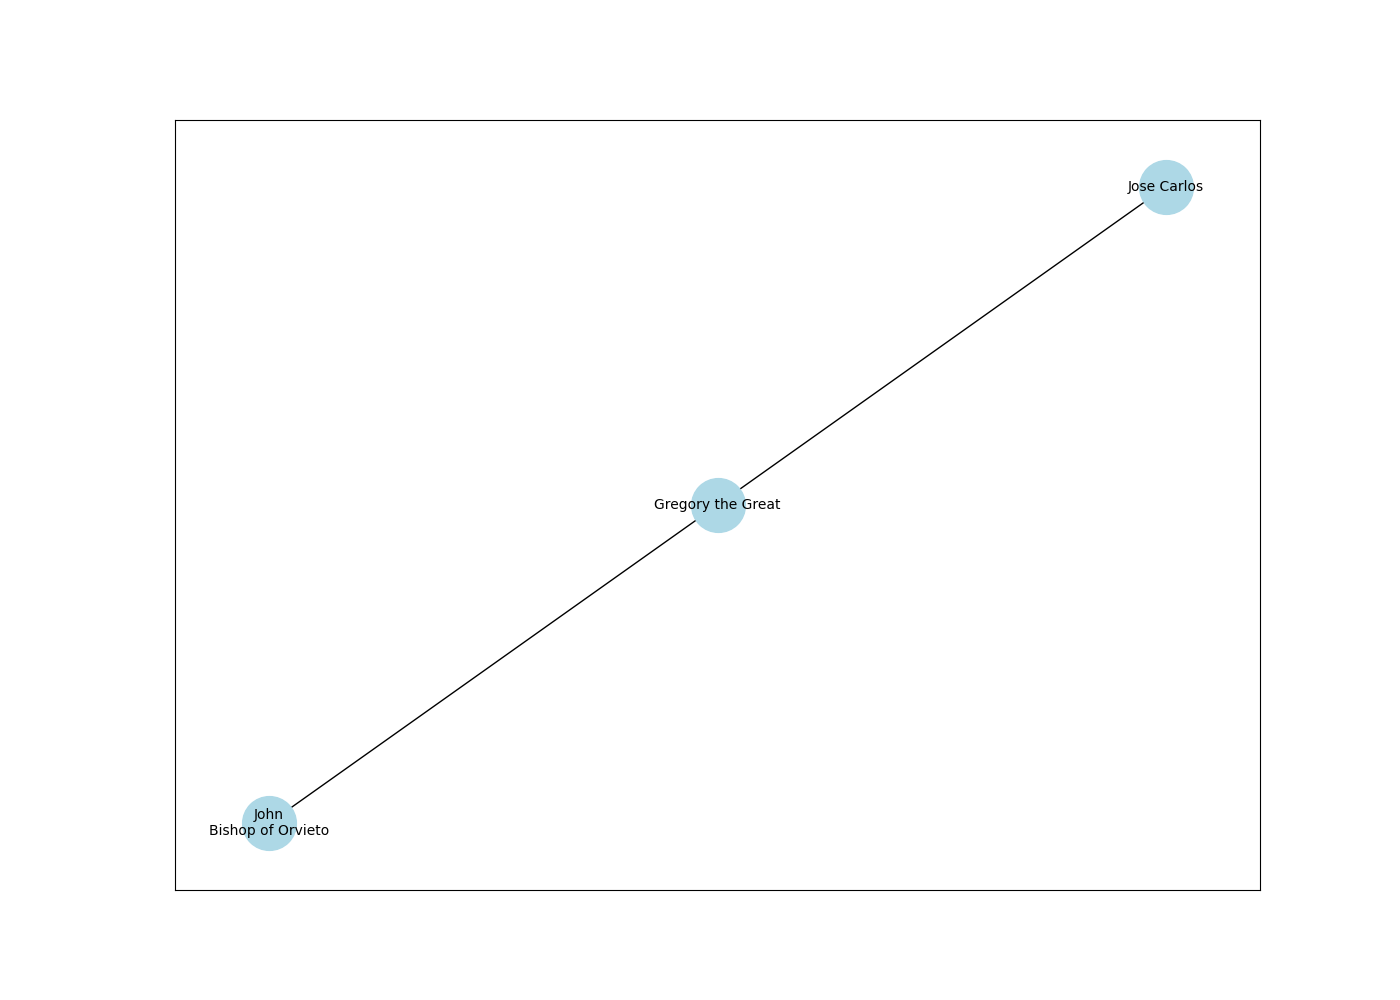
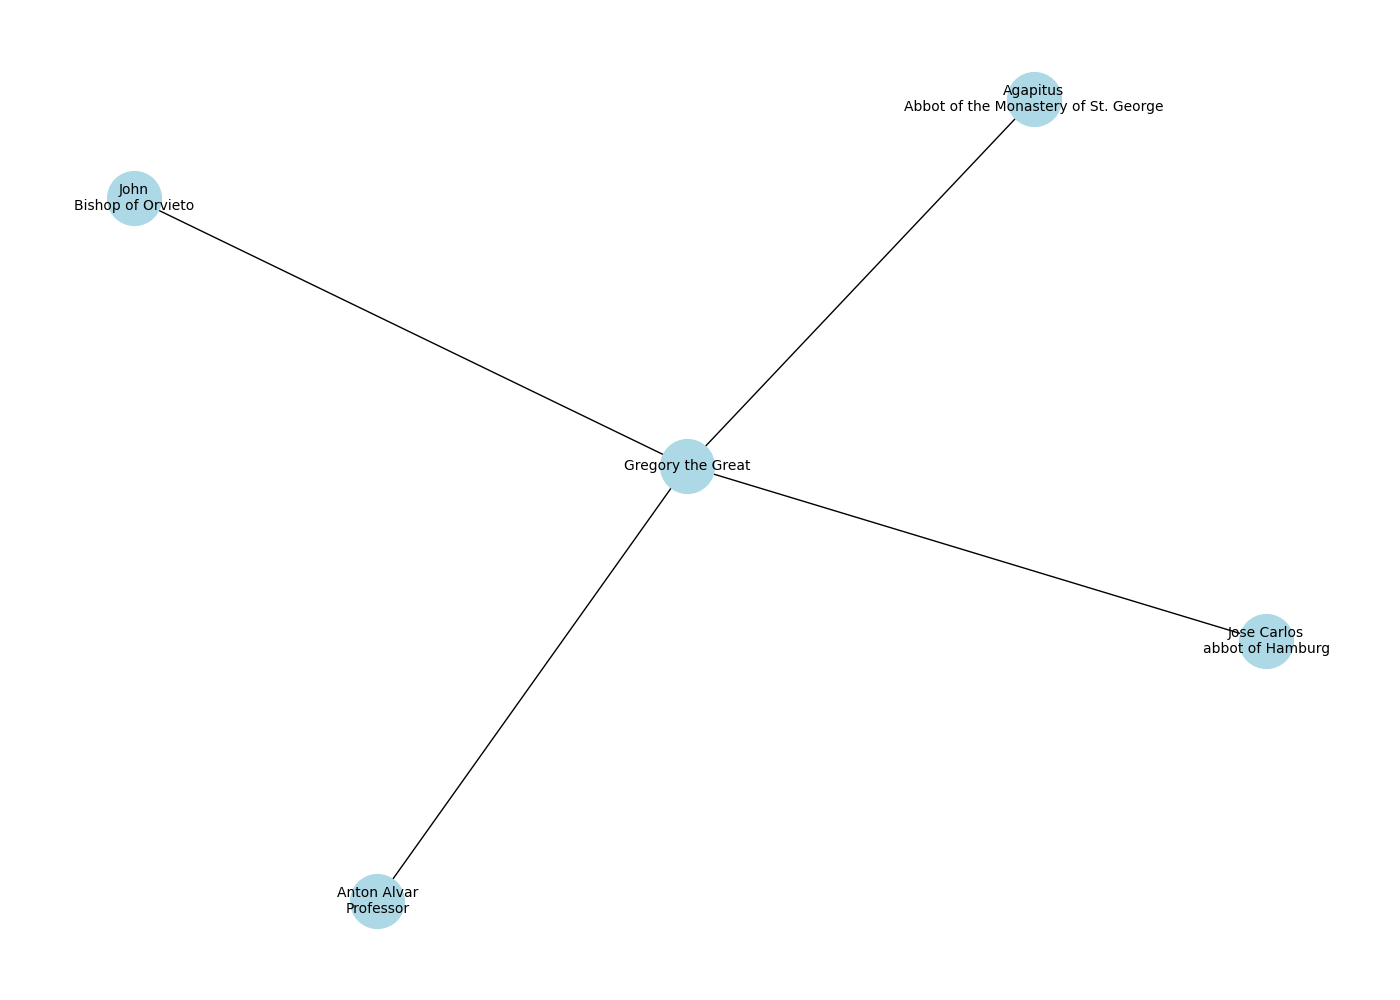
feat: generating interactive graph in html

diff --git a/out/html/graph.html b/out/html/graph.html
@@ -1,0 +1,179 @@
+<html>
+    <head>
+        <meta charset="utf-8">
+        
+            <script src="lib/bindings/utils.js"></script>
+            <link rel="stylesheet" href="https://cdnjs.cloudflare.com/ajax/libs/vis-network/9.1.2/dist/dist/vis-network.min.css" integrity="sha512-WgxfT5LWjfszlPHXRmBWHkV2eceiWTOBvrKCNbdgDYTHrT2AeLCGbF4sZlZw3UMN3WtL0tGUoIAKsu8mllg/XA==" crossorigin="anonymous" referrerpolicy="no-referrer" />
+            <script src="https://cdnjs.cloudflare.com/ajax/libs/vis-network/9.1.2/dist/vis-network.min.js" integrity="sha512-LnvoEWDFrqGHlHmDD2101OrLcbsfkrzoSpvtSQtxK3RMnRV0eOkhhBN2dXHKRrUU8p2DGRTk35n4O8nWSVe1mQ==" crossorigin="anonymous" referrerpolicy="no-referrer"></script>
+            
+        
+<center>
+<h1></h1>
+</center>
+
+<!-- <link rel="stylesheet" href="../node_modules/vis/dist/vis.min.css" type="text/css" />
+<script type="text/javascript" src="../node_modules/vis/dist/vis.js"> </script>-->
+        <link
+          href="https://cdn.jsdelivr.net/npm/bootstrap@5.0.0-beta3/dist/css/bootstrap.min.css"
+          rel="stylesheet"
+          integrity="sha384-eOJMYsd53ii+scO/bJGFsiCZc+5NDVN2yr8+0RDqr0Ql0h+rP48ckxlpbzKgwra6"
+          crossorigin="anonymous"
+        />
+        <script
+          src="https://cdn.jsdelivr.net/npm/bootstrap@5.0.0-beta3/dist/js/bootstrap.bundle.min.js"
+          integrity="sha384-JEW9xMcG8R+pH31jmWH6WWP0WintQrMb4s7ZOdauHnUtxwoG2vI5DkLtS3qm9Ekf"
+          crossorigin="anonymous"
+        ></script>
+
+
+        <center>
+          <h1></h1>
+        </center>
+        <style type="text/css">
+
+             #mynetwork {
+                 width: 100%;
+                 height: 800px;
+                 background-color: #ffffff;
+                 border: 1px solid lightgray;
+                 position: relative;
+                 float: left;
+             }
+
+             
+
+             
+             #config {
+                 float: left;
+                 width: 400px;
+                 height: 600px;
+             }
+             
+
+             
+        </style>
+    </head>
+
+
+    <body>
+        <div class="card" style="width: 100%">
+            
+            
+            <div id="mynetwork" class="card-body"></div>
+        </div>
+
+        
+        
+            <div id="config"></div>
+        
+
+        <script type="text/javascript">
+
+              // initialize global variables.
+              var edges;
+              var nodes;
+              var allNodes;
+              var allEdges;
+              var nodeColors;
+              var originalNodes;
+              var network;
+              var container;
+              var options, data;
+              var filter = {
+                  item : '',
+                  property : '',
+                  value : []
+              };
+
+              
+
+              
+
+              // This method is responsible for drawing the graph, returns the drawn network
+              function drawGraph() {
+                  var container = document.getElementById('mynetwork');
+
+                  
+
+                  // parsing and collecting nodes and edges from the python
+                  nodes = new vis.DataSet([{"color": "#97c2fc", "id": "Gregory the Great", "label": "Gregory the Great", "shape": "dot"}, {"color": "#97c2fc", "id": "Jose Carlos, abbot of Hamburg", "label": "Jose Carlos, abbot of Hamburg", "shape": "dot"}, {"color": "#97c2fc", "id": "Anton Alvar, Professor", "label": "Anton Alvar, Professor", "shape": "dot"}, {"color": "#97c2fc", "id": "John, Bishop of Orvieto", "label": "John, Bishop of Orvieto", "shape": "dot"}, {"color": "#97c2fc", "id": "Agapitus, Abbot of the Monastery of St. George", "label": "Agapitus, Abbot of the Monastery of St. George", "shape": "dot"}]);
+                  edges = new vis.DataSet([{"arrows": "to", "color": "#000000", "dashes": false, "from": "Gregory the Great", "title": " Intent: conciliation\n Year: 590\n Summary: Gregory talks about the role of Jose Carlos in Hamburg", "to": "Jose Carlos, abbot of Hamburg"}, {"arrows": "to", "color": "#999999", "dashes": true, "from": "Gregory the Great", "title": "Reference\n  Year: 590\n ", "to": "Anton Alvar, Professor"}, {"arrows": "to", "color": "#000000", "dashes": false, "from": "Gregory the Great", "title": " Intent: admonition\n Year: 593\n Summary: Gregory reports that Abbot Agapitus has complained that Bishop John has imposed severe restrictions on his monastery, including prohibiting Masses and burials.", "to": "John, Bishop of Orvieto"}, {"arrows": "to", "color": "#999999", "dashes": true, "from": "Gregory the Great", "title": "Reference\n  Year: 593\n ", "to": "Agapitus, Abbot of the Monastery of St. George"}]);
+
+                  nodeColors = {};
+                  allNodes = nodes.get({ returnType: "Object" });
+                  for (nodeId in allNodes) {
+                    nodeColors[nodeId] = allNodes[nodeId].color;
+                  }
+                  allEdges = edges.get({ returnType: "Object" });
+                  // adding nodes and edges to the graph
+                  data = {nodes: nodes, edges: edges};
+
+                  var options = {
+    "configure": {
+        "enabled": true,
+        "filter": [
+            "physics"
+        ]
+    },
+    "edges": {
+        "color": {
+            "inherit": true
+        },
+        "smooth": {
+            "enabled": true,
+            "type": "dynamic"
+        }
+    },
+    "interaction": {
+        "dragNodes": true,
+        "hideEdgesOnDrag": false,
+        "hideNodesOnDrag": false
+    },
+    "physics": {
+        "enabled": true,
+        "forceAtlas2Based": {
+            "avoidOverlap": 0,
+            "centralGravity": 0.01,
+            "damping": 0.4,
+            "gravitationalConstant": -50,
+            "springConstant": 0.08,
+            "springLength": 100
+        },
+        "solver": "forceAtlas2Based",
+        "stabilization": {
+            "enabled": true,
+            "fit": true,
+            "iterations": 1000,
+            "onlyDynamicEdges": false,
+            "updateInterval": 50
+        }
+    }
+};
+
+                  
+
+
+                  
+                  // if this network requires displaying the configure window,
+                  // put it in its div
+                  options.configure["container"] = document.getElementById("config");
+                  
+
+                  network = new vis.Network(container, data, options);
+
+                  
+
+                  
+
+                  
+
+
+                  
+
+                  return network;
+
+              }
+              drawGraph();
+        </script>
+    </body>
+</html>

diff --git a/src/build_graph.py b/src/build_graph.py
@@ -1,62 +1,139 @@
-import json
 import os
+import json
+
+import networkx as nx
+import matplotlib.pyplot as plt
+from pyvis.network import Network
 from glob import glob
 
-import matplotlib.pyplot as plt
-import networkx as nx
-
-# Config
-input_dir = "./letters/json/"
-output_path = "./out/img/graph.png"
+INPUT_DIR = "./letters/json/"
+OUTPUT_IMG = "./out/img/graph.png"
+OUTPUT_HTML = "./out/html/graph.html"
 
 
-def extract_fields(letter_json):
+def extract_fields(letter):
     """
-    Extrae los campos relevantes de una carta JSON.
+    Extrae campos clave de la carta JSON.
     """
-    sender = letter_json.get("sender_name") or letter_json.get("sender", {}).get("sender_name", "Unknown sender")
-    recipient = letter_json.get("recipient_name") or letter_json.get("recipient", {}).get(
-        "recipient_name", "Unknown recipient"
-    )
-    intent = letter_json.get("semantics", {}).get("intent") or letter_json.get("intent", "unknown")
-    summary = letter_json.get("summary", "")
+    sender = letter.get("sender_name") or letter.get("sender", {}).get("sender_name", "Unknown sender")
+    recipient = letter.get("recipient_name") or letter.get("recipient", {}).get("recipient_name", "Unknown recipient")
+    intent = letter.get("semantics", {}).get("intent") or letter.get("intent", "unknown")
+    summary = letter.get("summary", "")
+    year = letter.get("date", {}).get("year") or letter.get("year", "unknown")
 
-    return {
-        "sender": sender,
-        "recipient": recipient,
-        "intent": intent,
-        "summary": summary,
-    }
+    return sender, recipient, intent, summary, year
 
 
-def save_image(output_path):
-    os.makedirs(os.path.dirname(output_path), exist_ok=True)
-    plt.savefig(output_path)
-    print(f"Grafo combinado guardado en {output_path}")
-    plt.show()
-
-
-def main():
-    # Create graph
+def build_graph(input_dir):
+    """
+    Construye un grafo dirigido a partir de los JSONs en input_dir.
+    """
     G = nx.DiGraph()
+    json_files = glob(f"{input_dir}/*.json")
 
-    for json_file in glob(os.path.join(input_dir, "*.json")):
+    if not json_files:
+        print(f"⚠ No se encontraron archivos JSON en {input_dir}")
+        return G
+
+    for json_file in json_files:
         with open(json_file, "r", encoding="utf-8") as f:
             letter = json.load(f)
-        fields = extract_fields(letter)
-        G.add_node(fields["sender"])
-        G.add_node(fields["recipient"])
-        G.add_edge(fields["sender"], fields["recipient"], intent=fields["intent"], summary=fields["summary"])
+        sender, recipient, intent, summary, year = extract_fields(letter)
+        G.add_node(sender)
+        G.add_node(recipient)
+        G.add_edge(
+            sender,
+            recipient,
+            intent=intent,
+            summary=summary,
+            year=year,
+        )
 
-    pos = nx.spring_layout(G, seed=42)
+        # Personas mencionadas
+        secondary = letter.get("entities_secondary", {}).get("people_secondary", [])
+        for person in secondary:
+            name = person.get("name")
+            if not name:
+                continue
+
+            G.add_node(name)
+            G.add_edge(
+                sender,
+                name,
+                style="dashed",
+                reference=True,
+                year=year,
+            )
+
+    return G
+
+
+def save_graph_image(G, output_img):
+    """
+    Dibuja y guarda el grafo como imagen PNG.
+    """
+    os.makedirs(os.path.dirname(output_img), exist_ok=True)
 
     plt.figure(figsize=(14, 10))
+    pos = nx.spring_layout(G, seed=42)
     nx.draw_networkx_nodes(G, pos, node_color="lightblue", node_size=1500)
     nx.draw_networkx_edges(G, pos, arrowsize=20)
     labels = {n: n.replace(", ", "\n") for n in G.nodes()}
     nx.draw_networkx_labels(G, pos, labels=labels, font_size=10)
 
-    save_image(output_path)
+    plt.axis('off')
+    plt.tight_layout()
+    plt.savefig(output_img)
+    plt.close()
+    print(f"✔ Imagen PNG guardada en {output_img}")
+
+
+def save_graph_html(G, output_html):
+    """
+    Genera y guarda grafo interactivo en HTML usando PyVis.
+    """
+    os.makedirs(os.path.dirname(output_html), exist_ok=True)
+
+    net = Network(height="800px", width="100%", directed=True)
+    # Convertir grafo a PyVis con estilos
+    for u, v, data in G.edges(data=True):
+        edge_color = "#000000"
+        dashes = False
+        if data.get("reference"):
+            edge_color = "#999999"
+            dashes = True
+        net.add_node(u, label=u)
+        net.add_node(v, label=v)
+
+        reference = "Reference\n" if data.get('reference') else ""
+        intent = f"Intent: {data.get('intent')}\n" if data.get('intent') else ""
+        year = f"Year: {data.get('year')}\n" if data.get('year') else ""
+        summary = f"Summary: {data.get('summary')}" if not reference and data.get('summary') else ""
+
+        net.add_edge(
+            u,
+            v,
+            color=edge_color,
+            dashes=dashes,
+            title=f"{reference} {intent} {year} {summary}"
+        )
+
+    net.force_atlas_2based()
+    net.show_buttons(filter_=['physics'])
+    net.write_html(output_html)
+
+    print(f"✔ Grafo HTML interactivo guardado en {output_html}")
+
+
+def main():
+    G = build_graph(INPUT_DIR)
+
+    if len(G) == 0:
+        print("❌ Grafo vacío, nada que hacer.")
+        return
+
+    save_graph_image(G, OUTPUT_IMG)
+    save_graph_html(G, OUTPUT_HTML)
 
 
 if __name__ == "__main__":
